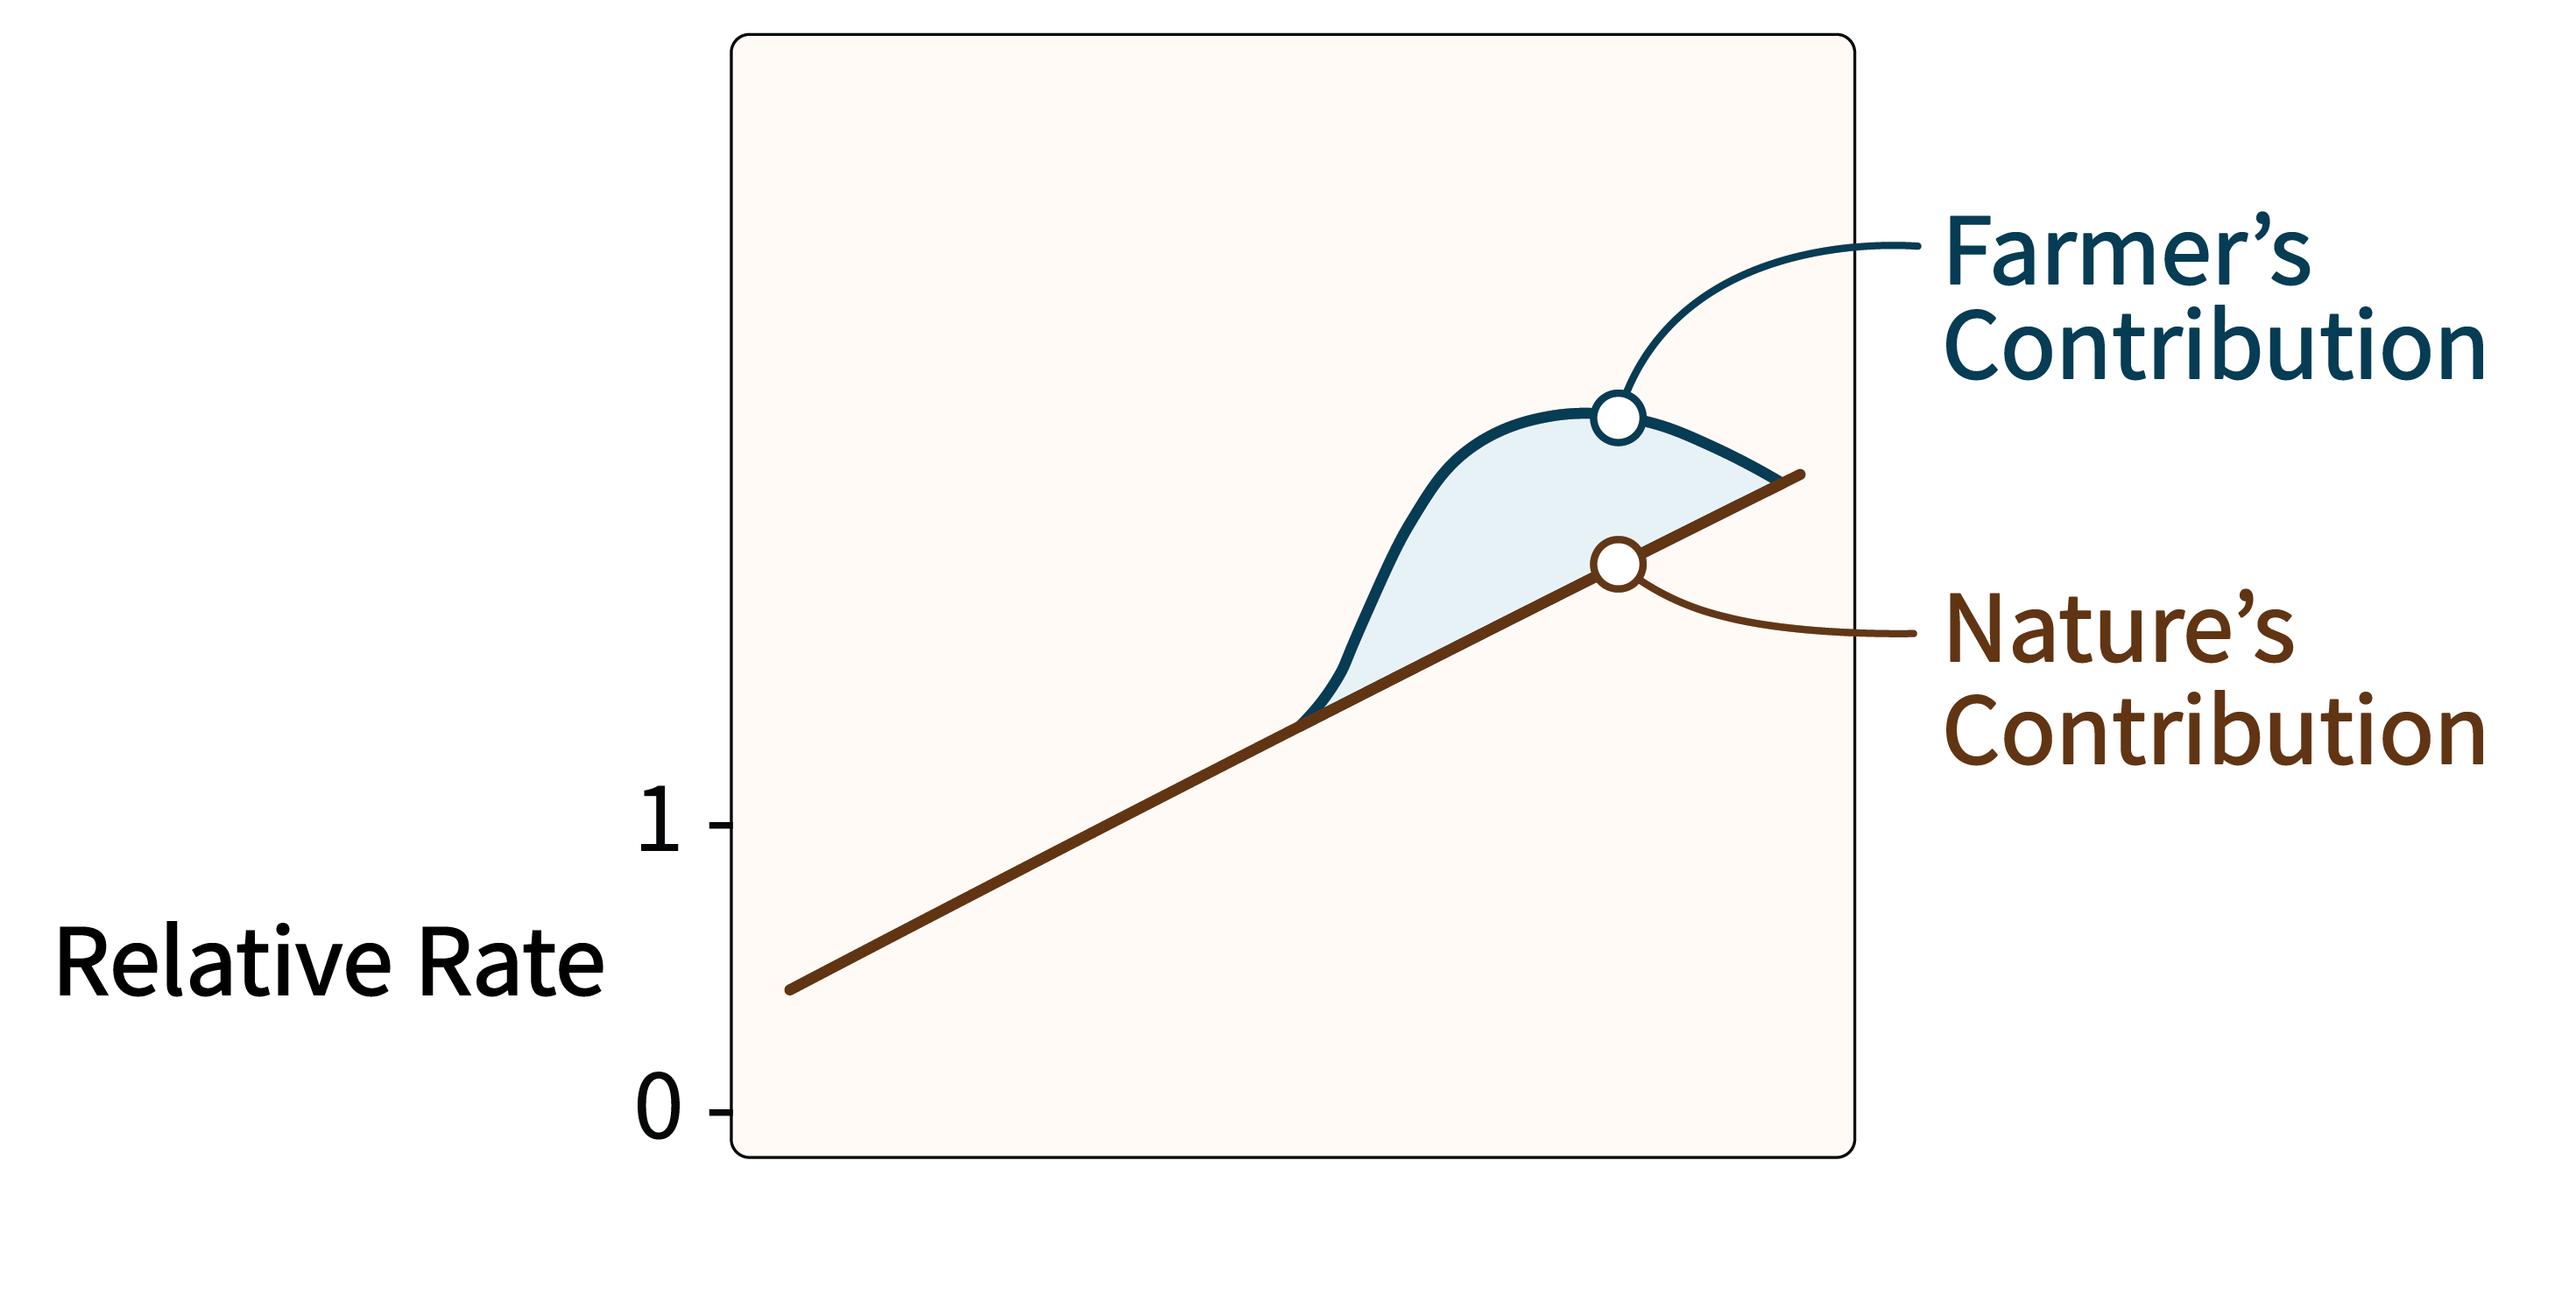
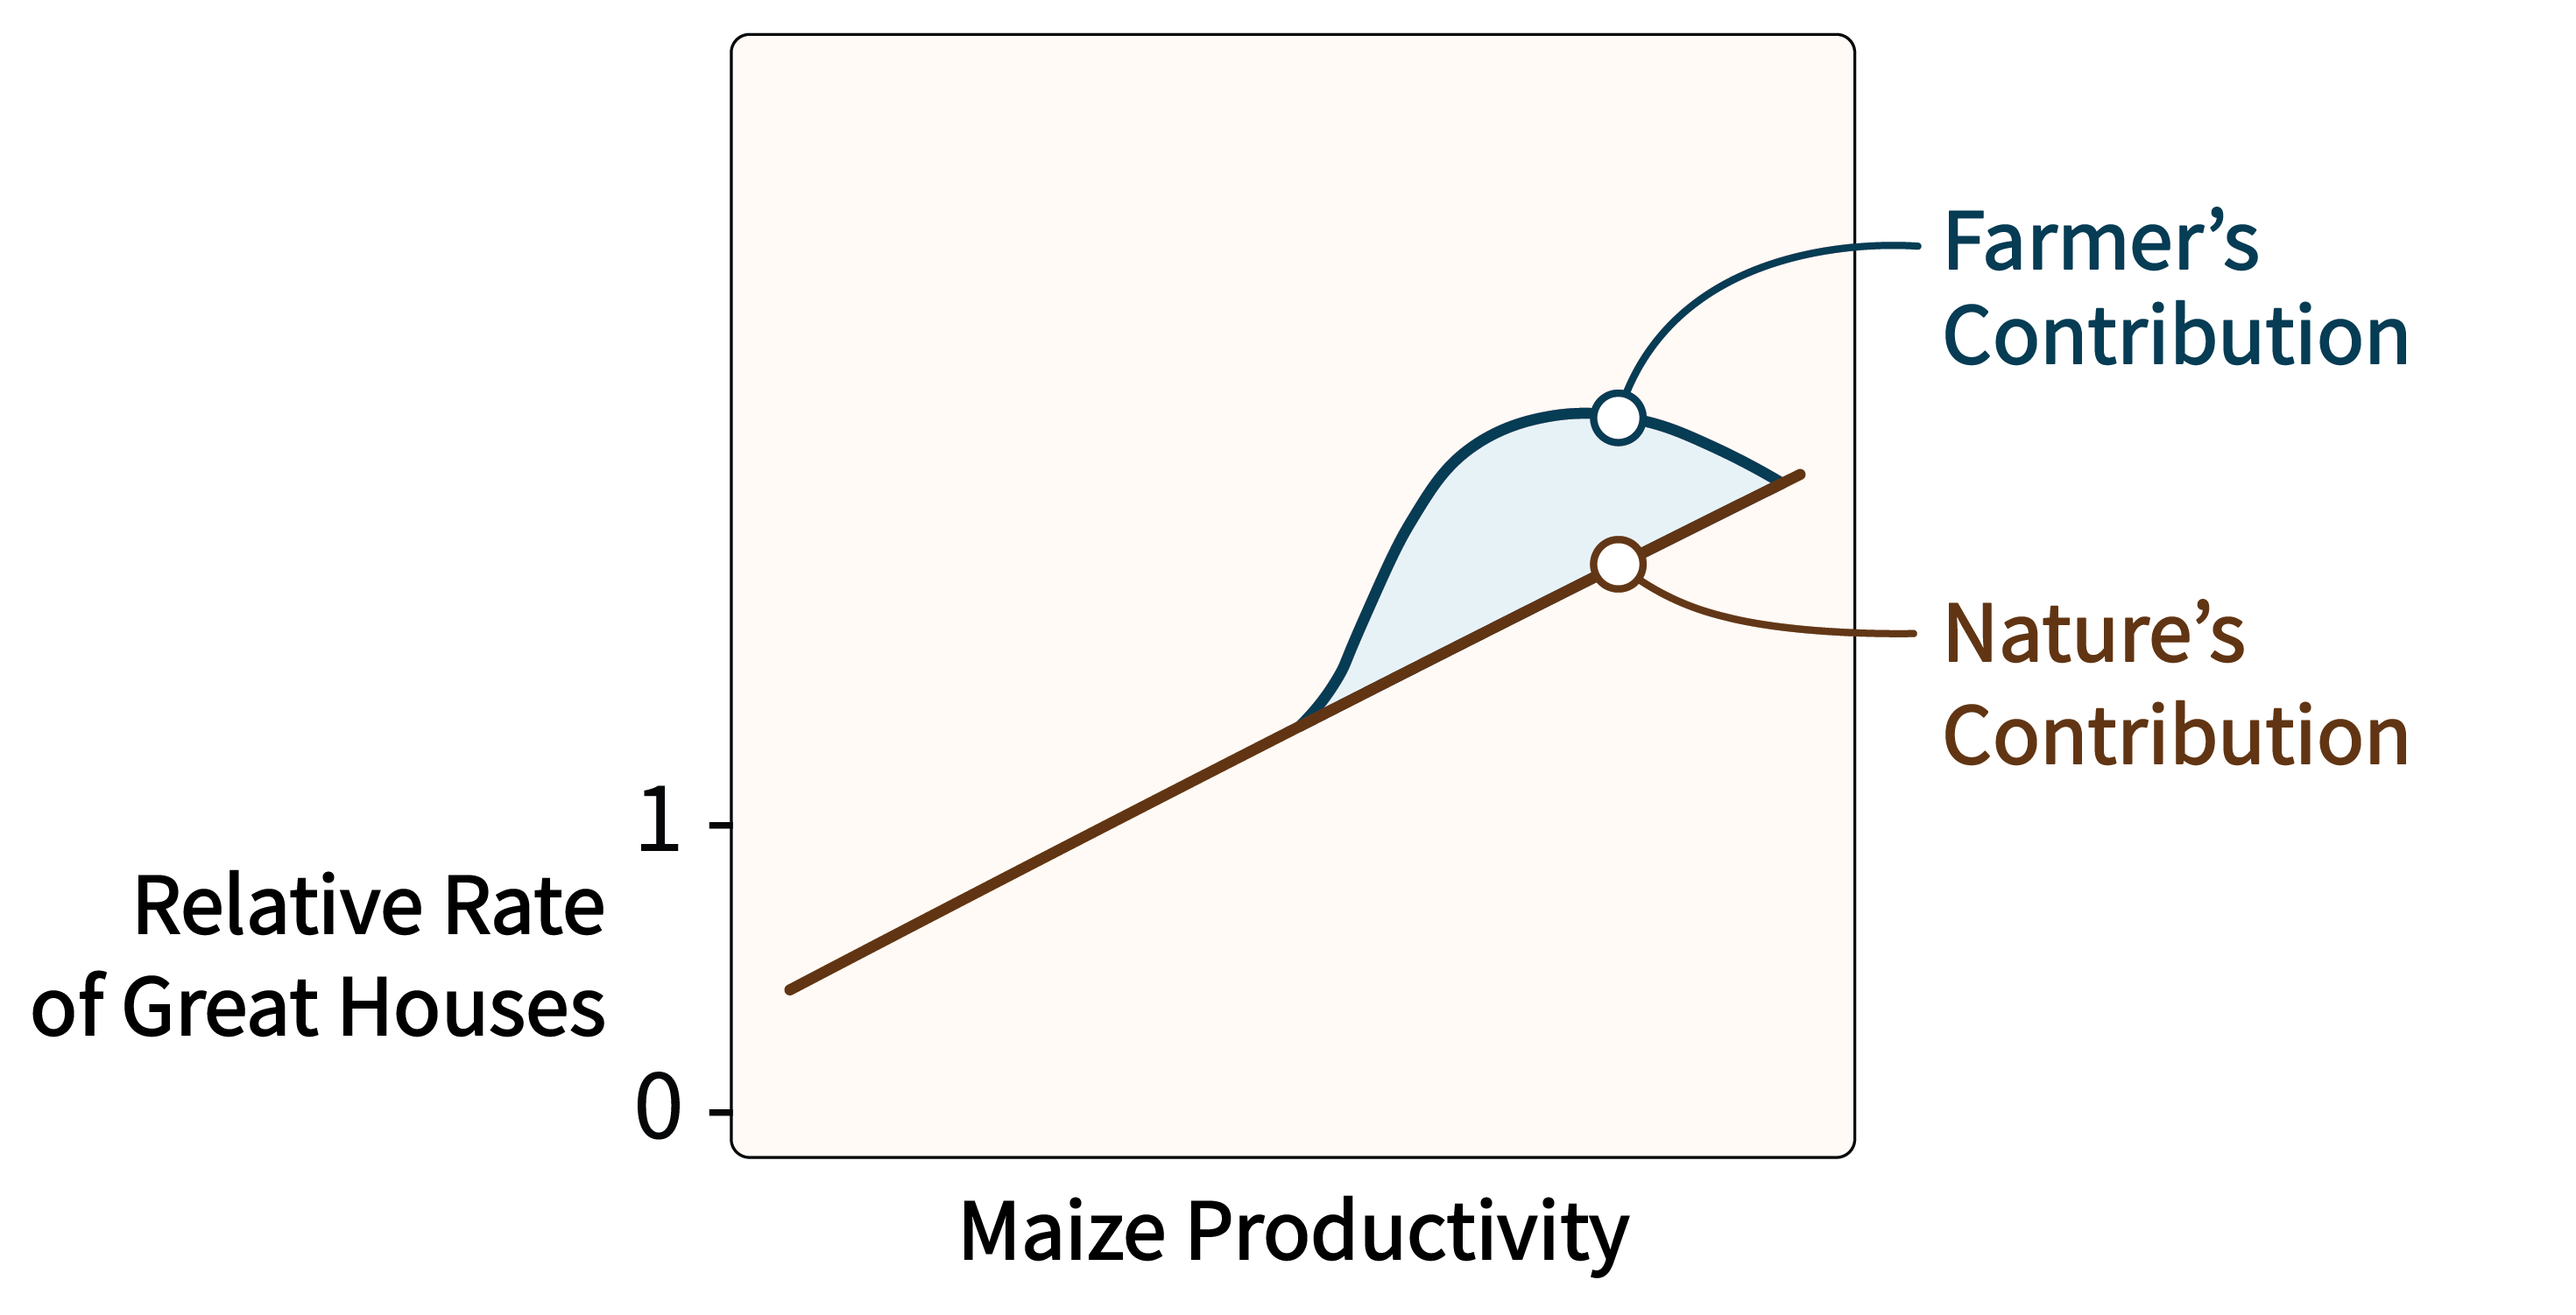
simplify

diff --git a/index.html b/index.html
@@ -335,116 +335,6 @@
 <p><i class="fa-brands fa-github" aria-label="github"></i> <a href="https://github.com/kbvernon/saa_2023-chaco_greathouses" style="padding-left: 0.3rem;">kbvernon/saa_2023-chaco_greathouses</a></p>
 </div>
 </section>
-<section id="why-density" class="slide level2 horizontal-center">
-<h2>Why density?</h2>
-<div class="quarto-figure quarto-figure-center">
-<figure>
-<p><img data-src="figures/us-cities.png" style="width:78.0%"></p>
-</figure>
-</div>
-
-<aside><div>
-<p>Cities data retrieved from <a href="https://simplemaps.com/data/us-cities" class="uri">https://simplemaps.com/data/us-cities</a> on 23/03/03.</p>
-</div></aside></section>
-<section id="familiar-hypotheses" class="slide level2">
-<h2>Familiar hypotheses</h2>
-<div class="fragment semi-fade-out" data-fragment-index="0">
-<ol type="1">
-<li><span class="large"><strong>Natural advantages</strong></span> Environment offers 🌳 resources, soil, 🌤 climate,💧 water!</li>
-</ol>
-</div>
-<div class="fragment fade-in-then-semi-out" data-fragment-index="0">
-<ol start="2" type="1">
-<li><span class="large"><strong>Agglomeration effects</strong></span> Density offers 🚚 reduced transport costs, 👷 available labor, and 🧪 knowledge spill-overs</li>
-</ol>
-</div>
-<div class="fragment fade-in" data-fragment-index="1">
-<ol start="3" type="1">
-<li><span class="large"><strong>But cities are costly, too!</strong></span> More people means 🤼competition for jobs, 📈 higher rents, 🍷 expensive food, and 😬 more people<br>
-</li>
-</ol>
-</div>
-</section>
-<section id="the-ideal-free-distribution" class="slide level2">
-<h2>The ideal free distribution</h2>
-<p>The <strong>suitability</strong> <span class="math inline">\(S_i\)</span> of habitat <span class="math inline">\(i\)</span> is some function of density</p>
-<p><span class="math display">\[S_i = Q_i - f(D_i)\]</span></p>
-<div class="quarto-figure quarto-figure-center" style="margin-top:1em;">
-<figure>
-<p><img data-src="figures/cartoon-habitat-selection-01.png" class="img0" style="width:70.0%"></p>
-</figure>
-</div>
-<!-- 
-## What about agglomeration effects?
-
-The __suitability__ $S_i$ of habitat $i$ is some function of density 
-
-$$S_i = Q_i - f(D_i) + g(D_i)$$
-
-<br>
-
-where
-
-[$Q$]{style="color:#633300;"}: natural advantage  
-[$\,f$]{style="color:#633300;"}: cost of density  
-[$\,g$]{style="color:#633300;"}: agglomeration effect  
-
-<br>
-
-⚠ Almost certainly the case that $g < f$ for most of human history.
--->
-</section>
-<section id="exploitative-mutualism" class="slide level2">
-<h2>Exploitative mutualism</h2>
-<p>The <strong>suitability</strong> <span class="math inline">\(S_i\)</span> of habitat <span class="math inline">\(i\)</span> is some function of density</p>
-<p><span class="math display">\[S_i = Q_i - f(D_i)\]</span></p>
-<div class="quarto-figure quarto-figure-center" style="margin-top:1em;">
-<figure>
-<p><img data-src="figures/cartoon-habitat-selection-02.png" class="img0" style="width:70.0%"></p>
-</figure>
-</div>
-
-<aside><div>
-<p>See Wilson and Codding (2020). “The marginal utility of inequality.” <a href="https://doi.org/10.1007/s12110-020-09383-4" class="uri">https://doi.org/10.1007/s12110-020-09383-4</a></p>
-</div></aside></section>
-<section id="a-cartoon-model-of-history" class="slide level2">
-<h2>A cartoon model of history</h2>
-<div class="r-stack" width="100%" style="margin-top:0;">
-<div class="fragment stay" data-fragment-index="0">
-<p><img data-src="figures/a-cartoon-of-human-history-01.png" class="img0"></p>
-</div>
-<div class="fragment fade-in-then-out" data-fragment-index="0">
-<p><img data-src="figures/a-cartoon-of-human-history-02.png" class="img0"></p>
-</div>
-<div class="fragment fade-in" data-fragment-index="1">
-<p><img data-src="figures/a-cartoon-of-human-history-03.png" class="img0"></p>
-</div>
-</div>
-</section>
-<section id="the-chaco-world" class="slide level2 horizontal-center" data-background-image="figures/chaco-world.png" data-background-size="contain">
-<h2>The Chaco world</h2>
-
-<aside><div>
-<p><span style="color:black;">Map displays extent of HUC10 watersheds overlapping with the Chaco region.</span></p>
-</div></aside></section>
-<section id="why-are-chaco-great-houses-built-in-these-areas" class="slide level2 horizontal-center" data-background-image="figures/chaco-world-great-houses.png" data-background-size="contain">
-<h2>Why are Chaco great houses built in these areas?</h2>
-<p><span class="menu-title" style="display:none">Why this place?</span></p>
-
-<aside><div>
-<p><span style="color:black;">Map displays centroids of HUC10 watersheds with at least one great house.</span></p>
-</div></aside></section>
-<section id="why-are-they-built-at-these-times" class="slide level2 horizontal-center">
-<h2>Why are they built at these times?</h2>
-<p><span class="menu-title" style="display:none">Why this time?</span></p>
-<div class="r-stack" width="100%" style="margin-top:1em;">
-<div class="quarto-figure quarto-figure-center" style="margin-top: 1.5em;">
-<figure>
-<p><img data-src="figures/construction-dates.png" style="width:65.0%"></p>
-</figure>
-</div>
-</div>
-</section>
 <section id="what-is-a-chaco-great-house" class="slide level2 horizontal-center">
 <h2>What is a Chaco great house?</h2>
 <p><span class="menu-title" style="display:none">What is a great house?</span></p>
@@ -468,36 +358,87 @@ where
 <aside><div>
 <p>Outlines adapted from <a href="https://doi.org/10.1080/00231940.2003.11758488">Van Dyke (2003)</a>, Figure 1.</p>
 </div></aside></section>
-<section id="what-about-local-farmers" class="slide level2 horizontal-center">
-<h2>What about local farmers?</h2>
-<p><span class="menu-title" style="display:none">What came before?</span></p>
-<div class="no-top-margin">
-<div class="quarto-figure quarto-figure-center">
+<section id="why-are-they-built-in-these-areas" class="slide level2 horizontal-center" data-background-image="figures/chaco-world-great-houses.png" data-background-size="contain">
+<h2>Why are they built in these areas?</h2>
+<p><span class="menu-title" style="display:none">Why this place?</span></p>
+
+<aside><div>
+<p><span style="color:black;">Map displays centroids of HUC10 watersheds with at least one great house.</span></p>
+</div></aside></section>
+<section id="why-are-they-built-at-these-times" class="slide level2 horizontal-center">
+<h2>Why are they built at these times?</h2>
+<p><span class="menu-title" style="display:none">Why this time?</span></p>
+<div class="r-stack" width="100%" style="margin-top:1em;">
+<div class="quarto-figure quarto-figure-center" style="margin-top: 1.5em;">
 <figure>
-<p><img data-src="figures/subregion-profiles.png" style="width:80.0%"></p>
+<p><img data-src="figures/construction-dates.png" style="width:65.0%"></p>
 </figure>
 </div>
 </div>
 </section>
-<section id="do-farmers-make-great-houses-more-likely" class="slide level2">
-<h2>Do farmers make great houses more likely?</h2>
-<p>Log of the <strong>relative rate</strong> of great houses <span class="math inline">\(\theta_i\)</span> in habitat <span class="math inline">\(i\)</span> is a function of ecology <span class="math inline">\(Q_i\)</span> and socioeconomics <span class="math inline">\(\gamma_i\)</span></p>
-<p><span class="math display">\[log\; \theta_i = f(Q_i) + \gamma_i\]</span></p>
+<section id="a-modern-analogy" class="slide level2 horizontal-center">
+<h2>A modern analogy</h2>
+<div class="quarto-figure quarto-figure-center">
+<figure>
+<p><img data-src="figures/us-cities.png" style="width:78.0%"></p>
+</figure>
+</div>
+
+<aside><div>
+<p>Cities data retrieved from <a href="https://simplemaps.com/data/us-cities" class="uri">https://simplemaps.com/data/us-cities</a> on 23/03/03.</p>
+</div></aside></section>
+<section id="familiar-hypotheses" class="slide level2">
+<h2>Familiar hypotheses</h2>
+<div class="fragment semi-fade-out" data-fragment-index="0">
+<ol type="1">
+<li><span class="large"><strong>Natural advantages</strong></span><br>
+Environment offers 🌳 resources, soil, 🌤 climate,💧 water!</li>
+</ol>
+</div>
+<div class="fragment fade-in-then-semi-out" data-fragment-index="0">
+<ol start="2" type="1">
+<li><span class="large"><strong>Agglomeration effects</strong></span><br>
+Density offers 🚚 reduced transport costs, 👷 available labor, and 🧪 knowledge spill-overs<br>
+</li>
+</ol>
+</div>
+<div class="fragment fade-in" data-fragment-index="1">
+<ol start="3" type="1">
+<li><span class="large"><strong>But cities are costly, too!</strong></span><br>
+More people means 🤼competition for jobs, 📈 higher rents, 🍷 expensive food, and 😬 more people<br>
+</li>
+</ol>
+</div>
+</section>
+<section id="the-ideal-free-distribution" class="slide level2">
+<h2>The ideal free distribution</h2>
+<p>Habitat <strong>suitability</strong> is negative density dependent, so how do we get agglomeration effects?</p>
+<div class="quarto-figure quarto-figure-center" style="margin-top:1em;">
+<figure>
+<p><img data-src="figures/cartoon-habitat-selection-01.png" class="img0" style="width:70.0%"></p>
+</figure>
+</div>
+</section>
+<section id="exploitative-mutualism" class="slide level2">
+<h2>Exploitative mutualism</h2>
+<p><strong>Circumscription</strong> leads to inequality but may also serve as a dis-interested third party re: collective action.</p>
+<div class="quarto-figure quarto-figure-center" style="margin-top:1em;">
+<figure>
+<p><img data-src="figures/cartoon-habitat-selection-02.png" class="img0" style="width:70.0%"></p>
+</figure>
+</div>
+
+<aside><div>
+<p>See Wilson and Codding (2020). “The marginal utility of inequality.” <a href="https://doi.org/10.1007/s12110-020-09383-4" class="uri">https://doi.org/10.1007/s12110-020-09383-4</a></p>
+</div></aside></section>
+<section id="co-regionalization" class="slide level2">
+<h2>Co-regionalization</h2>
+<p>Can explore this question by looking for areas where great houses and farms or pueblos co-occur.</p>
 <div class="quarto-figure quarto-figure-center" style="margin-top:1em;">
 <figure>
 <p><img data-src="figures/cartoon-farming-contribution.png" class="img0" style="width:70.0%"></p>
 </figure>
 </div>
-</section>
-<section id="data-sources" class="slide level2">
-<h2>Data sources</h2>
-<p><br></p>
-<p><img data-src="figures/logo-cybersw.png" width="300"><br>
-Archaeological data come from <a href="https://cybersw.org/">cyberSW</a>, <em>a cyberinfrastructure and collaborative space for conducting interdisciplinary research on and exploring the pre-Hispanic archaeological record of the US Southwest and Northwest Mexico</em>.</p>
-<p><br></p>
-<p><span class="large"><strong>SKOPE</strong></span><br>
-<span style="font-weight:bold; color:#003C54 !important;">Synthesizing Knowledge of Past Environments</span><br>
-Paleo-climate data provided by <a href="https://www.openskope.org/">SKOPE</a>, specifically the <a href="https://github.com/bocinsky/paleocar">PaleoCAR</a> model that regresses modern PRISM data on tree ring widths to hindcast past climates.</p>
 </section>
 <section id="unit-of-analysis" class="slide level2 horizontal-center" data-background-image="figures/unit-of-analysis.png" data-background-size="contain">
 <h2>Unit of analysis</h2>
